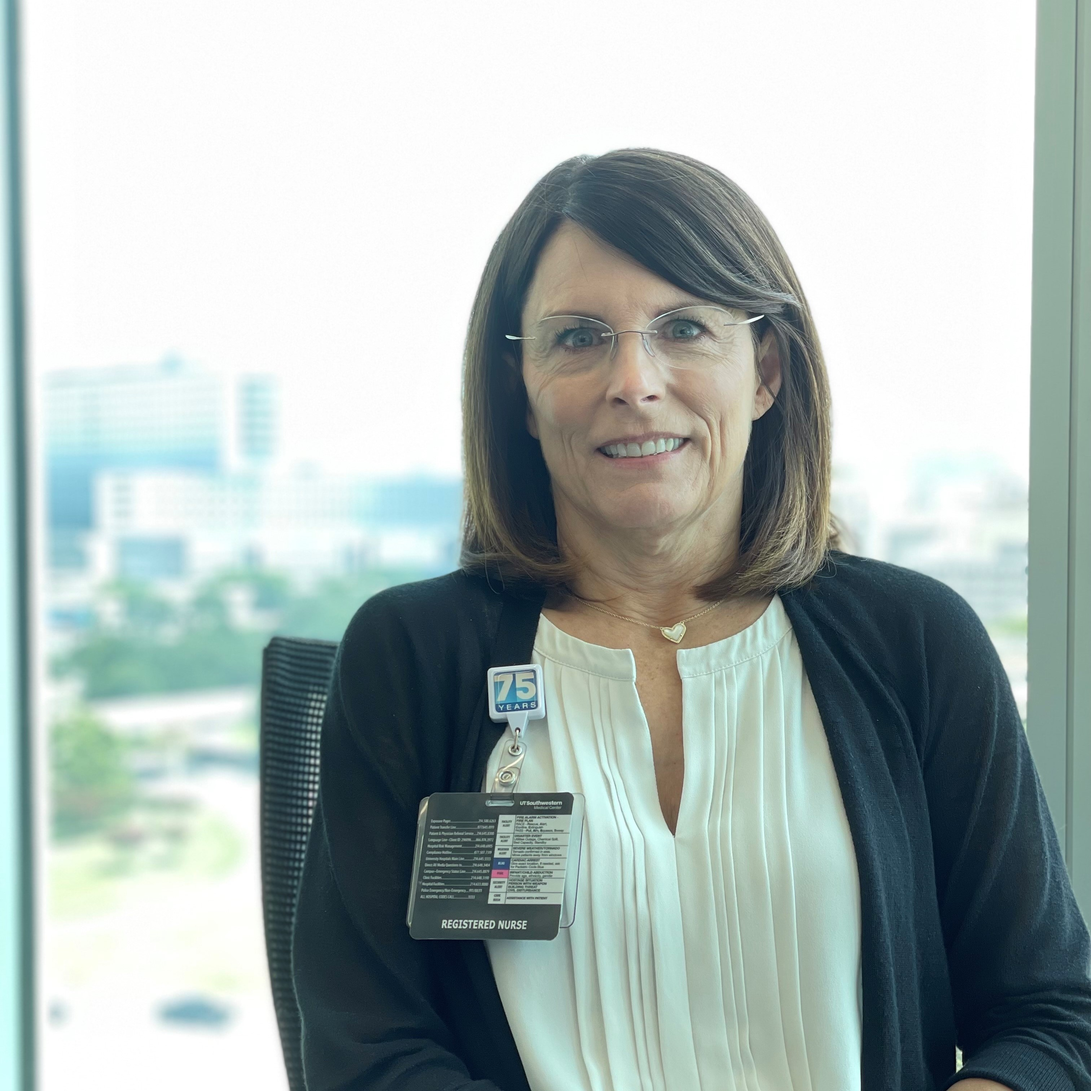
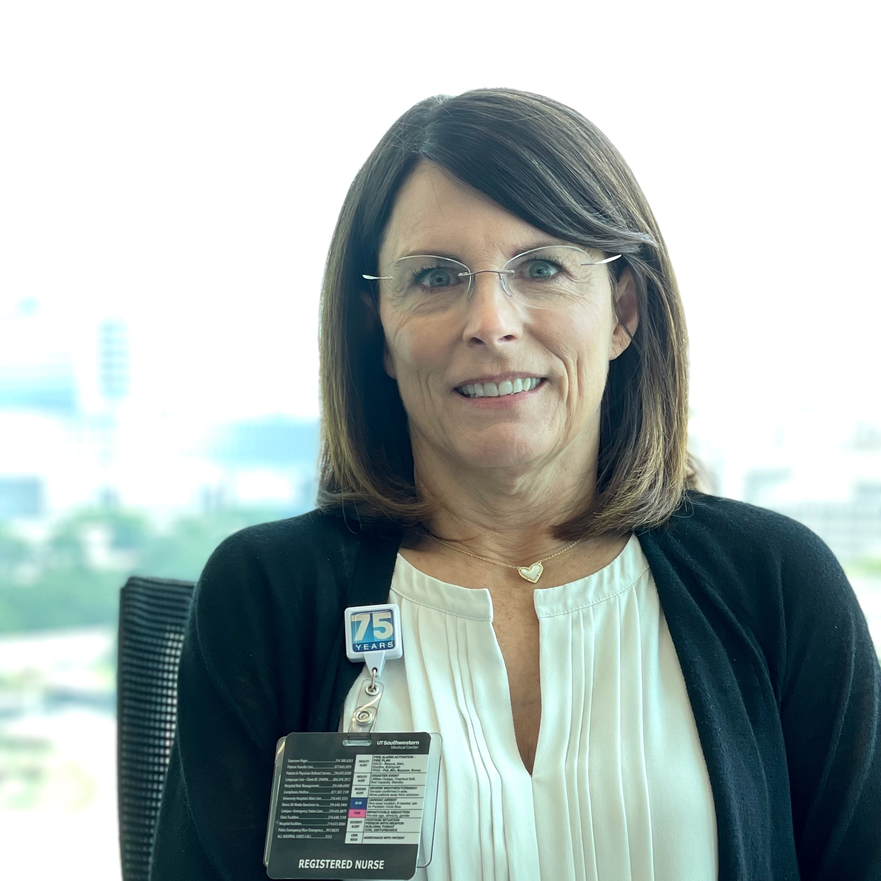
new staff pictures

diff --git a/src/components/home.js b/src/components/home.js
@@ -78,11 +78,12 @@ export default class Home extends Component {
                                 <br/><a href = "https://www.hemophilia.org/bleeding-disorders-a-z/types/von-willebrand-disease">https://www.hemophilia.org/bleeding-disorders-a-z/types/von-willebrand-disease</a><br/><br/><br/>                                
                                 
                                 <b>Other clotting factor deficiencies:</b><br/>
-                                    In the US, a rare disease or disorder is defined as one that affects fewer than 200,000 people. 
-                                    This means hemophilia A and B, and the less-common factor deficiencies such as I, II, V, VII, X, XI, XII and XIII, are all rare disorders.
-                                    <br/><br/>
+                                    The process of forming a blood clot to stop bleeding is called hemostasis, and involves many different blood proteins called clotting factors. 
+                                    A patient could have a bleeding disorder due to deficiency or defect of one or more of the other clotting factors other than factor VIII, factor IX, or von Willebrand factor.  
+                                    At our HTC, we also have patients with problems with their fibrinogen, factor VII, or factor XI. All of these are rare disorders. 
+                                    {/* <br/><br/>
                                     Blood clotting is a complex process, involving many different proteins, called factors, each of which plays a different role in the blood clotting process. 
-                                    Factor deficiencies are defined by which specific clotting protein in the blood protein is low, missing or doesn't work properly.
+                                    Factor deficiencies are defined by which specific clotting protein in the blood protein is low, missing or doesn't work properly. */}
                                 <br/><a href = "https://www.hemophilia.org/bleeding-disorders-a-z/types/other-factor-deficiencies">https://www.hemophilia.org/bleeding-disorders-a-z/types/other-factor-deficiencies</a><br/><br/><br/>                                 
                                 
                                 <b>Congenital platelet disorders:</b><br/>
@@ -126,7 +127,7 @@ export default class Home extends Component {
                             <br/>
                             <Row>
                                 <Col>
-                                    <img alt="" src = '/shen-yu.jpg' width="200"/>
+                                    <img alt="" src = '/samantha.jpg' width="200"/>
                                     <h4>Samantha Frost and colleagues</h4>
                                     <p><br/></p>
                                 </Col>
@@ -286,7 +287,7 @@ export default class Home extends Component {
                                         <h3>West Campus Building 3 (WCB3) - UT Southwestern</h3>
                                         <p>2001 Inwood Rd, 9th floor
                                             <br/>Dallas, TX 75390</p>
-                                        <p>214-645-2800</p>
+                                        <p>214-645-2800 <br/>(For appointments, use the phone numbers below)</p>
                                         <iframe
                                             width="100%"
                                             height="400"
@@ -299,9 +300,9 @@ export default class Home extends Component {
                                     <br/>
                                     <div >
                                         <h3>Moody Outpatient Center at Parkland Hospital</h3>
-                                        <p>5151 Maple Ave
+                                        <p>5151 Maple Ave, 3rd floor
                                             <br/>Dallas, TX 75235</p>
-                                        <p>&nbsp;</p>
+                                            <p>214-590-5582 <br/>(For appointments, use the phone numbers below)</p>
                                         <iframe
                                             width="100%"
                                             height="400"

diff --git a/src/App.js b/src/App.js
@@ -16,26 +16,19 @@ class App extends Component {
                 {' '}
                   
                   <div style={{display: "flex", alignItems: "center"}}>
-                    
-                    <img
-                    alt=""
-                    src="/logo1.png"
-                    width="250"
-                    height="50"
-                    // hspace="130"
-                    style={{marginLeft: "18%", marginRight: "50px"}}
-                    className="d-inline-block align-top"
-                  />{' '}
-                    <b>North Texas Comprehensive Hemophilia Treatment Center</b>
-                    {/* <img
-                            alt=""
-                            src="/bloodLogo3.png"
-                            width="80%"
-                            height="80%"
-                            // hspace="130"
-                            //style={{marginLeft: "16%", marginRight: "50px"}}
-                            className="d-inline-block align-top"
-                    /> */}
+                    <a href = "https://www.utsouthwestern.edu/" style={{marginLeft: "15%", marginRight: "50px"}}>
+                      <img
+                        alt=""
+                        src="/logo1.png"
+                        width="250"
+                        height="50"
+                        // hspace="130"
+                        
+                        className="d-inline-block align-top"
+                      /> 
+                  </a>
+                    {' '}
+                    <b style = {{fontSize: "25px"}}>North Texas Comprehensive Hemophilia Treatment Center</b>
                     </div>
                   {/*  */}
                 </Navbar.Brand>
@@ -46,7 +39,7 @@ class App extends Component {
             <Jumbotron id="footer" jumbotron-fluid>
                     <Container id="jumboText">
                       <Row>
-                        <Col md={{ span: 4, offset: 2 }}>
+                        <Col>
                           <br/>
                           <img
                             alt=""
@@ -54,20 +47,29 @@ class App extends Component {
                             //width="250"
                             //height="50"
                             // hspace="130"
-                            style={{marginLeft: "16%", marginRight: "50px"}}
+                            style={{marginLeft: "16%", marginRight: "50px", marginTop: "20px"}}
                             className="d-inline-block align-top"
                           />{' '}
                         </Col>
-                        <Col md={{ span: 4, offset: 0 }}>
+                        <Col>
+                        <hr style={{height:"1px", visibility:"hidden" }}/>
+                          <h4>Contact Us</h4>
                           <p>
-                            Monday - Friday<br/>
-                            8:00 am—5:00 pm<br/>
-                            (214) 648-5177<br/>
-                            (214) 648-1937<br/>
-                            (214) 648-3049<br/>
-                            Fax: (214)-648-4105
+                            (214) 648-1939<br/>
+                            After Hours: (999) 999-9999<br/>
+                            Fax: (214)-648-4105<br/>
+                            <a href="mailto:yumin68@yahoo.com">yumin68@yahoo.com</a>
                           </p>
                         </Col>
+                        <Col>
+                        <hr style={{height:"1px", visibility:"hidden" }}/>
+                          <h4>Hours</h4>
+                          <p>
+                            Monday - Friday<br/>
+                            8:00 am - 5:00 pm<br/>
+                          </p>
+                        </Col>
+
                       </Row>
                     
                         
